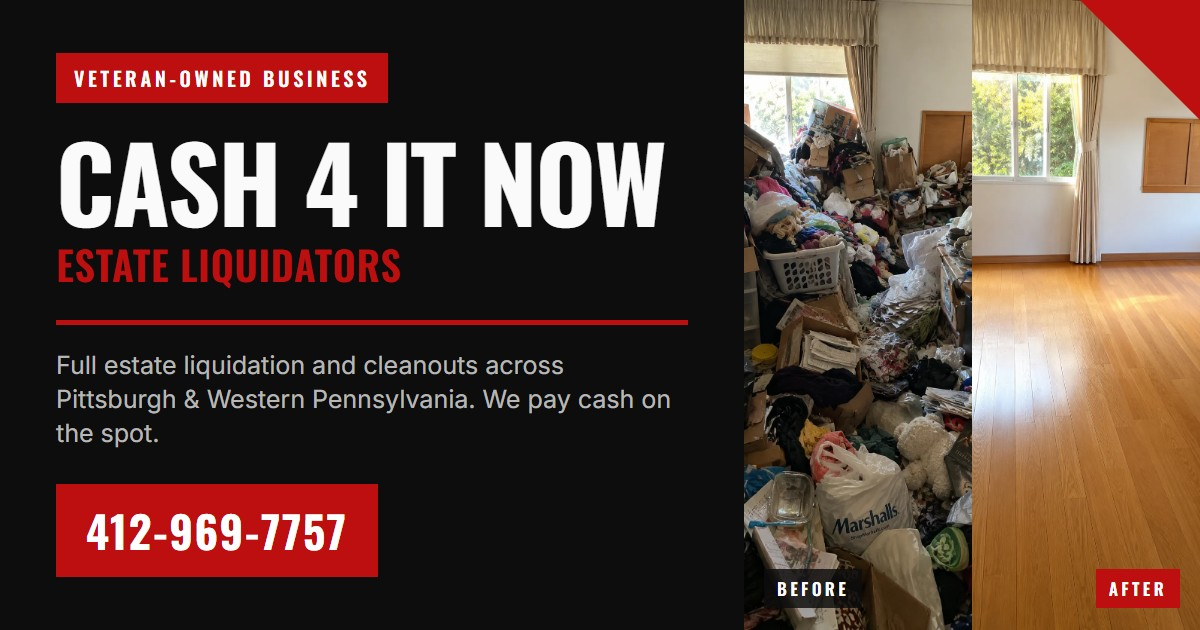
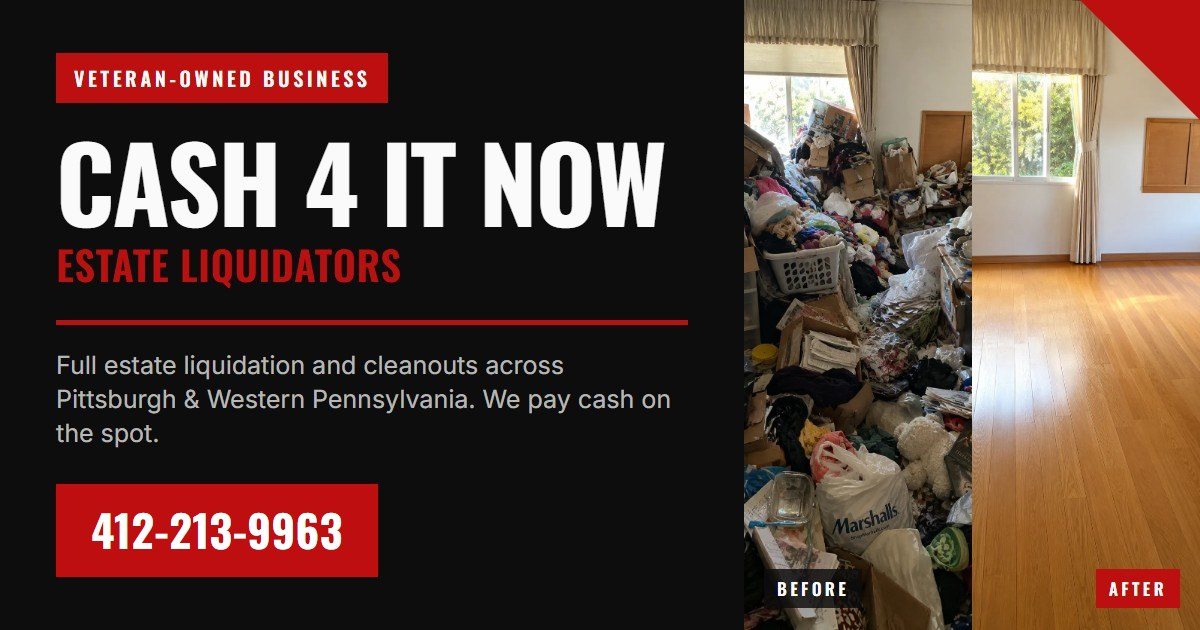
The site shows the business number 412-213-9963 everywhere, share card included
The site showed the old business number, 412-969-7757, in about twenty places: the navbar, footer,
hero, call-to-action bands, the contact, shop, about and categories pages, the cart, the share
metadata, and printed into the social share card itself. Cash4itNow's business number is now
412-213-9963 (Ben, 2026-10-22), the number its A2P brand registration was verified with, so the
site has to show it.

Every tel: link and every printed copy now carries the new number, and public/share.jpg is
re-rendered with it. The number box was redrawn over the original card at the same position, red
and size, in the site's own Oswald 700, with digits matched to the old ones' 37 px height.

The card's source document was never committed, which is why the image had to be patched rather
than rebuilt. Three of the edited files use CRLF line endings; they were edited preserving them.

The site shows the business number 412-213-9963 everywhere, share card included

Ticket W-20261022T234143Z

Changed region(s): [[0.0617, 0.8143, 0.3083, 0.8746]]

diff --git a/src/components/layout/Navbar.jsx b/src/components/layout/Navbar.jsx
@@ -74,11 +74,11 @@ export default function Navbar() {
             )}
           </Link>
           <a
-            href="tel:4129697757"
+            href="tel:4122139963"
             className="hidden md:flex items-center gap-2 bg-accent text-white px-5 py-2.5 font-heading text-sm font-bold tracking-wider uppercase hover:bg-accent/90 transition-colors"
           >
             <Phone className="w-4 h-4" />
-            412-969-7757
+            412-213-9963
           </a>
 
           <button
@@ -140,14 +140,14 @@ export default function Navbar() {
               </Link>
             </motion.div>
             <motion.a
-              href="tel:4129697757"
+              href="tel:4122139963"
               initial={{ opacity: 0 }}
               animate={{ opacity: 1 }}
               transition={{ delay: 0.39 }}
               className="flex items-center gap-2 bg-accent text-white px-8 py-4 font-heading text-xl font-bold uppercase mt-4"
             >
               <Phone className="w-5 h-5" />
-              412-969-7757
+              412-213-9963
             </motion.a>
           </motion.div>
         )}

diff --git a/src/components/home/CtaSection.jsx b/src/components/home/CtaSection.jsx
@@ -57,11 +57,11 @@ export default function CtaSection() {
               We'll be in touch shortly. Or call us right now:
             </p>
             <a
-              href="tel:4129697757"
+              href="tel:4122139963"
               className="inline-flex items-center gap-3 bg-white text-foreground px-8 py-4 font-heading font-black text-2xl uppercase hover:bg-white/90 transition-colors"
             >
               <Phone className="w-6 h-6" />
-              412-969-7757
+              412-213-9963
             </a>
           </motion.div>
         </div>
@@ -182,7 +182,7 @@ export default function CtaSection() {
               </Button>
               <span className="text-foreground/40 text-sm font-heading uppercase">or</span>
               <a
-                href="tel:4129697757"
+                href="tel:4122139963"
                 className="inline-flex items-center gap-2 border-2 border-foreground/20 px-6 h-14 font-heading font-black text-xl uppercase hover:border-accent hover:text-accent transition-colors"
               >
                 <Phone className="w-5 h-5" />

diff --git a/src/pages/Categories.jsx b/src/pages/Categories.jsx
@@ -143,9 +143,9 @@ export default function Categories() {
           </div>
           <div className="text-center">
             <p className="text-background/60 mb-6 font-heading uppercase tracking-wide">Don't see your item? Call us — we buy almost everything.</p>
-            <a href="tel:4129697757" className="inline-flex items-center gap-3 bg-accent text-white px-10 py-5 font-heading font-black text-2xl uppercase hover:bg-accent/90 transition-colors">
+            <a href="tel:4122139963" className="inline-flex items-center gap-3 bg-accent text-white px-10 py-5 font-heading font-black text-2xl uppercase hover:bg-accent/90 transition-colors">
               <Phone className="w-6 h-6" />
-              412-969-7757
+              412-213-9963
             </a>
           </div>
         </div>

diff --git a/src/components/layout/Footer.jsx b/src/components/layout/Footer.jsx
@@ -87,9 +87,9 @@ export default function Footer() {
               Contact Us
             </p>
             <div className="flex flex-col gap-3">
-              <a href="tel:4129697757" className="flex items-center gap-2 text-background hover:text-accent transition-colors font-heading font-bold text-lg">
+              <a href="tel:4122139963" className="flex items-center gap-2 text-background hover:text-accent transition-colors font-heading font-bold text-lg">
                 <Phone className="w-4 h-4" />
-                412-969-7757
+                412-213-9963
               </a>
               <a href="mailto:info@cash4itnow.com" className="flex items-center gap-2 text-background/70 hover:text-accent transition-colors text-sm">
                 <Mail className="w-4 h-4" />

diff --git a/src/components/shop/CheckoutModal.jsx b/src/components/shop/CheckoutModal.jsx
@@ -144,8 +144,8 @@ export default function CheckoutModal({ item, onClose }) {
                 {/* Alt contact */}
                 <div className="flex items-center gap-2 justify-center pt-1">
                   <span className="text-xs text-muted-foreground">Or call us directly:</span>
-                  <a href="tel:4129697757" className="text-xs font-heading font-black text-accent uppercase hover:underline flex items-center gap-1">
-                    <Phone className="w-3 h-3" /> 412-969-7757
+                  <a href="tel:4122139963" className="text-xs font-heading font-black text-accent uppercase hover:underline flex items-center gap-1">
+                    <Phone className="w-3 h-3" /> 412-213-9963
                   </a>
                 </div>
               </form>

diff --git a/src/components/shop/CartDrawer.jsx b/src/components/shop/CartDrawer.jsx
@@ -152,8 +152,8 @@ export default function CartDrawer({ onClose }) {
 
                 <div className="flex items-center gap-2 justify-center pt-1">
                   <span className="text-xs text-muted-foreground">Or call us:</span>
-                  <a href="tel:4129697757" className="text-xs font-heading font-black text-accent uppercase hover:underline flex items-center gap-1">
-                    <Phone className="w-3 h-3" /> 412-969-7757
+                  <a href="tel:4122139963" className="text-xs font-heading font-black text-accent uppercase hover:underline flex items-center gap-1">
+                    <Phone className="w-3 h-3" /> 412-213-9963
                   </a>
                 </div>
               </form>

diff --git a/src/components/home/HeroSection.jsx b/src/components/home/HeroSection.jsx
@@ -354,11 +354,11 @@ export default function HeroSection() {
 
             <motion.div {...rise(0.5)} className="flex flex-col sm:flex-row flex-wrap gap-4">
               <a
-                href="tel:4129697757"
+                href="tel:4122139963"
                 className="inline-flex items-center justify-center gap-3 bg-accent text-white px-8 py-5 font-heading font-black text-xl md:text-2xl uppercase tracking-wider hover:bg-accent/90 transition-colors"
               >
                 <Phone className="w-6 h-6" />
-                412-969-7757
+                412-213-9963
               </a>
               {!showForm && (
                 <button

diff --git a/src/pages/Shop.jsx b/src/pages/Shop.jsx
@@ -181,11 +181,11 @@ export default function Shop() {
                 actions={
                   <>
                     <a
-                      href="tel:4129697757"
+                      href="tel:4122139963"
                       className="inline-flex items-center justify-center gap-2 bg-accent text-white px-6 py-4 font-heading font-black text-lg uppercase tracking-wider hover:bg-accent/90 transition-colors"
                     >
                       <Phone className="w-5 h-5" />
-                      412-969-7757
+                      412-213-9963
                     </a>
                     <Link
                       to="/contact"

diff --git a/index.html b/index.html
@@ -32,7 +32,7 @@
     <meta property="og:image" content="https://www.cash4itnow.com/share.jpg" />
     <meta property="og:image:width" content="1200" />
     <meta property="og:image:height" content="630" />
-    <meta property="og:image:alt" content="Cash 4 It Now Estate Liquidators, veteran-owned, 412-969-7757, with before and after photographs of an estate cleanout" />
+    <meta property="og:image:alt" content="Cash 4 It Now Estate Liquidators, veteran-owned, 412-213-9963, with before and after photographs of an estate cleanout" />
     <meta name="twitter:card" content="summary_large_image" />
   </head>
   <body>

diff --git a/src/api/leadForm.jsx b/src/api/leadForm.jsx
@@ -2,8 +2,8 @@ import React, { useCallback, useId, useRef, useState } from "react";
 import { startLeadTimer, submitLead } from "@/api/leadClient";
 import { resolveOrigins } from "@/lib/origins";
 
-export const CONTACT_PHONE = "412-969-7757";
-export const CONTACT_PHONE_HREF = "tel:4129697757";
+export const CONTACT_PHONE = "412-213-9963";
+export const CONTACT_PHONE_HREF = "tel:4122139963";
 
 // The honeypot has to be a real, focusable input a bot will happily fill.
 // `type="hidden"` and `display:none` are the two things a form-filling script

diff --git a/src/lib/usePageMeta.js b/src/lib/usePageMeta.js
@@ -27,7 +27,7 @@ export const SITE_ORIGIN = resolveOrigins(import.meta.env).site;
 export const SHARE_IMAGE = "/share.jpg";
 export const SHARE_IMAGE_SIZE = { width: 1200, height: 630 };
 const SHARE_IMAGE_ALT =
-  "Cash 4 It Now Estate Liquidators, veteran-owned, 412-969-7757, with before and after photographs of an estate cleanout";
+  "Cash 4 It Now Estate Liquidators, veteran-owned, 412-213-9963, with before and after photographs of an estate cleanout";
 
 /**
  * Creates, updates or removes one meta tag. `og:*` is addressed by `property`

diff --git a/src/pages/Contact.jsx b/src/pages/Contact.jsx
@@ -40,7 +40,7 @@ export default function Contact() {
   usePageMeta({
     title: "Contact — Free Estate Evaluation",
     description:
-      "Call 412-969-7757, or send four details and we call you back. Free estate evaluations across Pittsburgh and Western Pennsylvania, seven days a week.",
+      "Call 412-213-9963, or send four details and we call you back. Free estate evaluations across Pittsburgh and Western Pennsylvania, seven days a week.",
   });
   useJsonLd(
     "breadcrumb",
